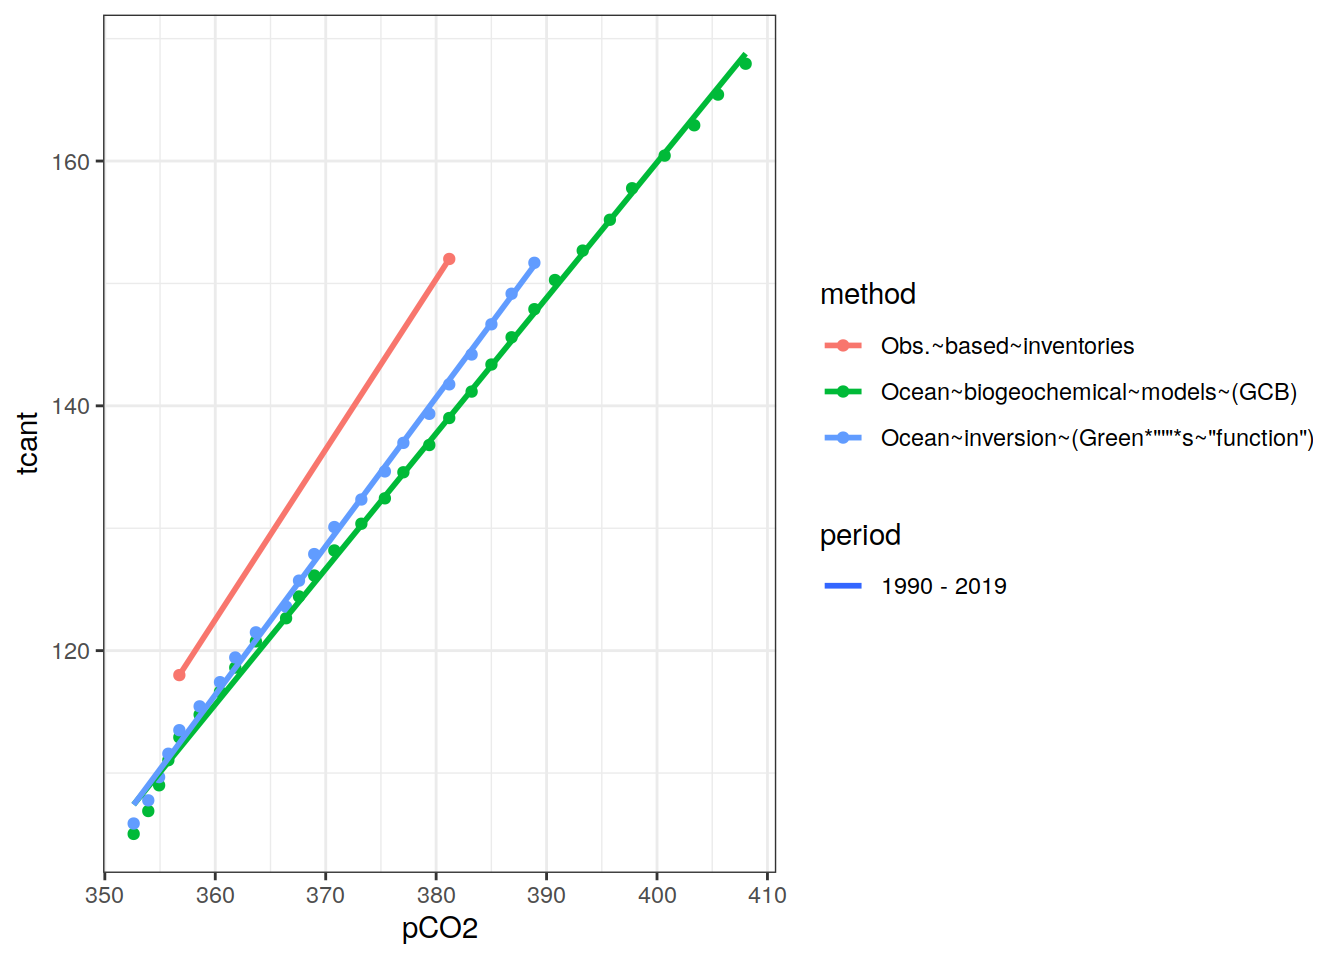
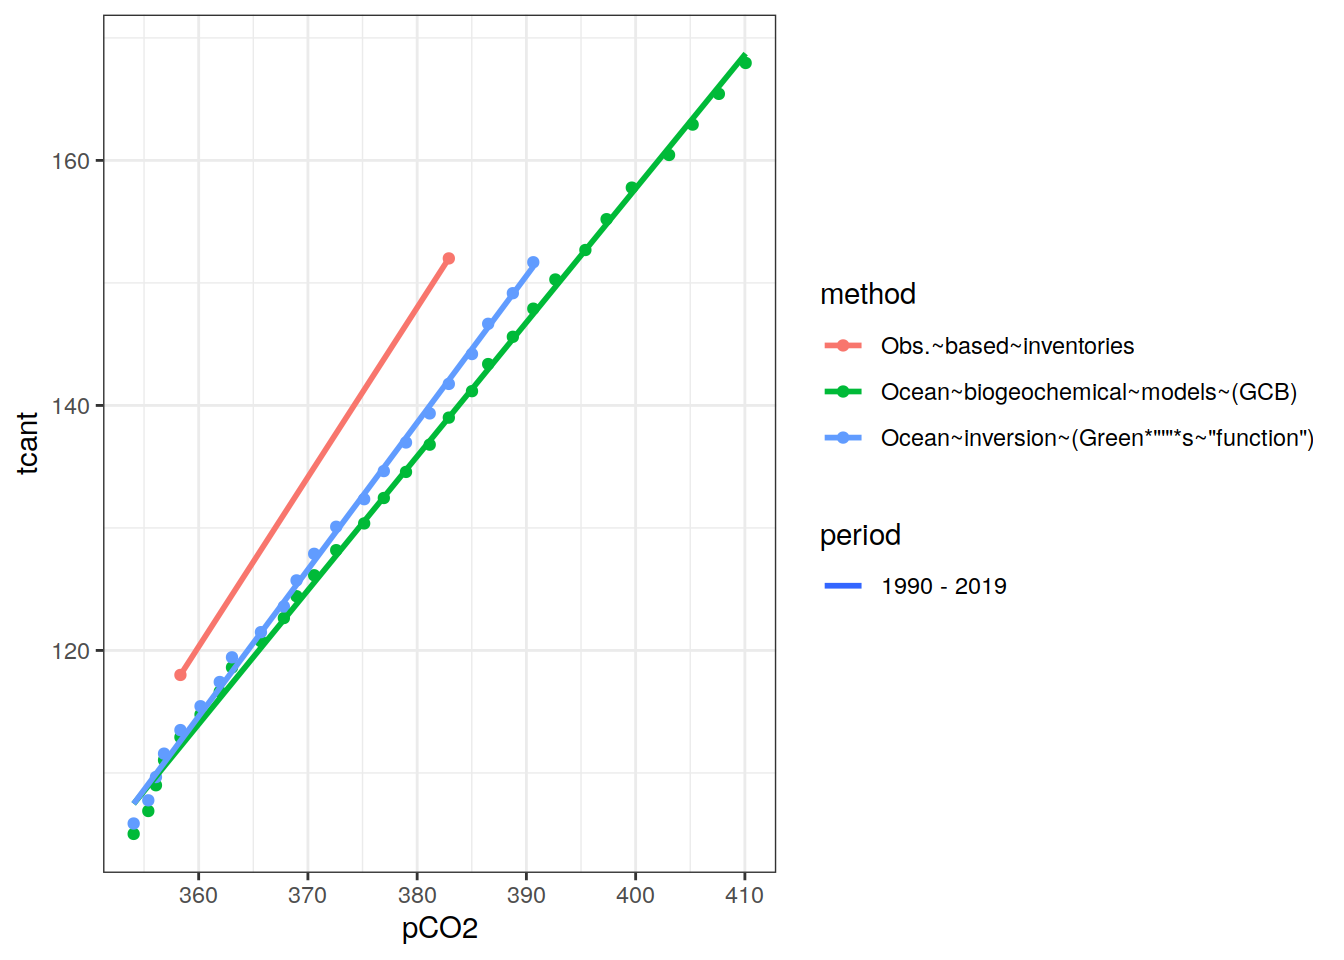
Build site.

diff --git a/docs/interior_storage.html b/docs/interior_storage.html
@@ -494,16 +494,16 @@ This reproducible <a href="https://rmarkdown.rstudio.com">R Markdown</a> analysi
 <div class="panel panel-default">
 <div class="panel-heading">
 <p class="panel-title">
-<a data-toggle="collapse" data-parent="#workflowr-checks" href="#strongRepositoryversionstrongahrefhttpsgithubcomjensdanielmuelleroceancarbonsinkreviewtree0b8d1ecdadf36817e8c0b6fd15b54508db372ed6targetblank0b8d1eca"> <span class="glyphicon glyphicon-ok text-success" aria-hidden="true"></span> <strong>Repository version:</strong> <a href="https://github.com/jens-daniel-mueller/ocean_carbon_sink_review/tree/0b8d1ecdadf36817e8c0b6fd15b54508db372ed6" target="_blank">0b8d1ec</a> </a>
+<a data-toggle="collapse" data-parent="#workflowr-checks" href="#strongRepositoryversionstrongahrefhttpsgithubcomjensdanielmuelleroceancarbonsinkreviewtreefdb1257ea3e6df88fa6a8a8bcb6919cc26ee476ftargetblankfdb1257a"> <span class="glyphicon glyphicon-ok text-success" aria-hidden="true"></span> <strong>Repository version:</strong> <a href="https://github.com/jens-daniel-mueller/ocean_carbon_sink_review/tree/fdb1257ea3e6df88fa6a8a8bcb6919cc26ee476f" target="_blank">fdb1257</a> </a>
 </p>
 </div>
[2 lines of base64/hex data omitted]
 <div class="panel-body">
 <p>
 Great! You are using Git for version control. Tracking code development and connecting the code version to the results is critical for reproducibility.
 </p>
 <p>
-The results in this page were generated with repository version <a href="https://github.com/jens-daniel-mueller/ocean_carbon_sink_review/tree/0b8d1ecdadf36817e8c0b6fd15b54508db372ed6" target="_blank">0b8d1ec</a>. See the <em>Past versions</em> tab to see a history of the changes made to the R Markdown and HTML files.
+The results in this page were generated with repository version <a href="https://github.com/jens-daniel-mueller/ocean_carbon_sink_review/tree/fdb1257ea3e6df88fa6a8a8bcb6919cc26ee476f" target="_blank">fdb1257</a>. See the <em>Past versions</em> tab to see a history of the changes made to the R Markdown and HTML files.
 </p>
 <p>
 Note that you need to be careful to ensure that all relevant files for the analysis have been committed to Git prior to generating the results (you can use <code>wflow_publish</code> or <code>wflow_git_commit</code>). workflowr only checks the R Markdown file, but you know if there are other scripts or data files that it depends on. Below is the status of the Git repository when the results were generated:
@@ -551,6 +551,40 @@ Message
 </tr>
 </thead>
 <tbody>
+<tr>
+<td>
+Rmd
+</td>
+<td>
+<a href="https://github.com/jens-daniel-mueller/ocean_carbon_sink_review/blob/fdb1257ea3e6df88fa6a8a8bcb6919cc26ee476f/analysis/interior_storage.Rmd" target="_blank">fdb1257</a>
+</td>
+<td>
+jens-daniel-mueller
+</td>
+<td>
+2022-10-05
+</td>
+<td>
+use NOAA GML atm pCO2
+</td>
+</tr>
+<tr>
+<td>
+html
+</td>
+<td>
+<a href="https://rawcdn.githack.com/jens-daniel-mueller/ocean_carbon_sink_review/916ade0a1743c7fc8df3367af855e2146dd15ef4/docs/interior_storage.html" target="_blank">916ade0</a>
+</td>
+<td>
+jens-daniel-mueller
+</td>
+<td>
+2022-10-05
+</td>
+<td>
+Build site.
+</td>
+</tr>
 <tr>
 <td>
 Rmd
@@ -2043,6 +2077,11 @@ Ocean_Sink &lt;-
 <pre class="r"><code>co2_atm_reccap2 &lt;-
   read_csv(paste(path_emlr_preprocessing,
                   &quot;co2_atm_reccap2.csv&quot;,
+                  sep = &quot;&quot;))
+
+co2_atm &lt;-
+  read_csv(paste(path_emlr_preprocessing,
+                  &quot;co2_atm.csv&quot;,
                   sep = &quot;&quot;))</code></pre>
 </div>
 <div id="lauvset-2016" class="section level2">
@@ -4335,7 +4374,10 @@ jens-daniel-mueller
 </div>
 <div id="section" class="section level2">
 <h2>1994 - 2007</h2>
-<pre class="r"><code>tcant_beta_period &lt;- tcant_beta %&gt;% 
+<pre class="r"><code>tcant_beta &lt;- left_join(tcant_beta %&gt;% select(-pCO2),
+                        co2_atm)
+
+tcant_beta_period &lt;- tcant_beta %&gt;% 
   mutate(period = cut(year,
                       c(1993, 2007),
                       c(&quot;1994 - 2007&quot;))) %&gt;% 
@@ -4411,9 +4453,9 @@ jens-daniel-mueller
 # Groups:   method, period [3]
   method                  period   term  estimate std.error statistic    p.value
   &lt;chr&gt;                   &lt;fct&gt;    &lt;chr&gt;    &lt;dbl&gt;     &lt;dbl&gt;     &lt;dbl&gt;      &lt;dbl&gt;
-1 &quot;Obs.~based~inventorie… 1994 - … pCO2      1.39 NaN           NaN   NaN       
-2 &quot;Ocean~biogeochemical~… 1994 - … pCO2      1.06   0.00999     106.    3.27e-19
-3 &quot;Ocean~inversion~(Gree… 1994 - … pCO2      1.16   0.0130       89.3   2.60e-18</code></pre>
+1 &quot;Obs.~based~inventorie… 1994 - … pCO2      1.38 NaN           NaN   NaN       
+2 &quot;Ocean~biogeochemical~… 1994 - … pCO2      1.05   0.00975     107.    2.85e-19
+3 &quot;Ocean~inversion~(Gree… 1994 - … pCO2      1.14   0.0125       91.4   1.97e-18</code></pre>
 </div>
 <div id="section-1" class="section level2">
 <h2>1990 - 2019</h2>
@@ -4493,9 +4535,9 @@ jens-daniel-mueller
 # Groups:   method, period [3]
   method                  period   term  estimate std.error statistic    p.value
   &lt;chr&gt;                   &lt;fct&gt;    &lt;chr&gt;    &lt;dbl&gt;     &lt;dbl&gt;     &lt;dbl&gt;      &lt;dbl&gt;
-1 &quot;Obs.~based~inventorie… 1990 - … pCO2      1.39 NaN           NaN   NaN       
-2 &quot;Ocean~biogeochemical~… 1990 - … pCO2      1.11   0.00873     127.    3.38e-40
-3 &quot;Ocean~inversion~(Gree… 1990 - … pCO2      1.21   0.0129       94.0   6.15e-28</code></pre>
+1 &quot;Obs.~based~inventorie… 1990 - … pCO2      1.38 NaN           NaN   NaN       
+2 &quot;Ocean~biogeochemical~… 1990 - … pCO2      1.09   0.00863     127.    3.61e-40
+3 &quot;Ocean~inversion~(Gree… 1990 - … pCO2      1.20   0.0130       92.3   8.79e-28</code></pre>
 <pre class="r"><code>rm(tcant_beta_annual,
    tcant_beta_period)</code></pre>
 </div>
@@ -4510,7 +4552,33 @@ jens-daniel-mueller
                       c(&quot;1980s&quot;, &quot;1990s&quot;, &quot;2000s&quot;, &quot;2010s&quot;))) %&gt;% 
   filter(!is.na(period))
 
-sink_decadal &lt;- sink_decadal %&gt;% 
+delta_co2_atm &lt;- co2_atm %&gt;% 
+  mutate(delta_pCO2 = pCO2 - lag(pCO2))
+
+
+ggplot() +
+  geom_path(data = delta_co2_atm, aes(year, delta_pCO2)) +
+  geom_point(data = delta_co2_atm, aes(year, delta_pCO2)) +
+  stat_smooth(
+    data = delta_co2_atm %&gt;% filter(between(year, 2000, 2009)),
+    aes(year, delta_pCO2,
+        col = &quot;2000 - 2009&quot;),
+    method = &quot;lm&quot;,
+    formula = y ~ 1,
+    se = FALSE
+  ) +
+  stat_smooth(
+    data = delta_co2_atm %&gt;% filter(between(year, 1994, 2007)),
+    aes(year, delta_pCO2,
+        col = &quot;1994 - 2007&quot;),
+    method = &quot;lm&quot;,
+    formula = y ~ 1,
+    se = FALSE
+  ) +
+  scale_color_brewer(palette = &quot;Set1&quot;, name = &quot;Mean period&quot;) +
+  labs(y = expression(Delta~pCO[&quot;2,atm&quot;]~year-&quot;lag(year)&quot;~(µatm)))</code></pre>
+<p><img src="figure/interior_storage.Rmd/sink_budget_1990_2020-1.png" width="672" style="display: block; margin: auto;" /></p>
+<pre class="r"><code>sink_decadal &lt;- sink_decadal %&gt;% 
   arrange(year) %&gt;% 
   group_by(method,period) %&gt;% 
   summarise(tcant_end = last(tcant),
@@ -4536,12 +4604,12 @@ sink_decadal</code></pre>
 <pre><code># A tibble: 6 × 13
   method          period tcant_end tcant_max_end tcant_min_end pCO2_end year_end
   &lt;chr&gt;           &lt;fct&gt;      &lt;dbl&gt;         &lt;dbl&gt;         &lt;dbl&gt;    &lt;dbl&gt;    &lt;dbl&gt;
-1 &quot;Obs.~based~in… 2000s       152           171.          133.     381.     2007
-2 &quot;Ocean~biogeoc… 1990s       123.          134.          111.     366.     1999
-3 &quot;Ocean~biogeoc… 2000s       143.          157.          129.     385.     2009
-4 &quot;Ocean~biogeoc… 2010s       168.          185.          151.     408.     2019
-5 &quot;Ocean~inversi… 1990s       124.          147.          101.     366.     1999
-6 &quot;Ocean~inversi… 2000s       147.          173.          120.     385.     2009
+1 &quot;Obs.~based~in… 2000s       152           171.          133.     383.     2007
+2 &quot;Ocean~biogeoc… 1990s       123.          134.          111.     368.     1999
+3 &quot;Ocean~biogeoc… 2000s       143.          157.          129.     386.     2009
+4 &quot;Ocean~biogeoc… 2010s       168.          185.          151.     410.     2019
+5 &quot;Ocean~inversi… 1990s       124.          147.          101.     368.     1999
+6 &quot;Ocean~inversi… 2000s       147.          173.          120.     386.     2009
 # … with 6 more variables: delta_pCO2 &lt;dbl&gt;, delta_tcant &lt;dbl&gt;,
 #   delta_year &lt;dbl&gt;, beta &lt;dbl&gt;, delta_tcant_uncert &lt;dbl&gt;,
 #   scaled_delta_tcant_obs &lt;dbl&gt;</code></pre>
